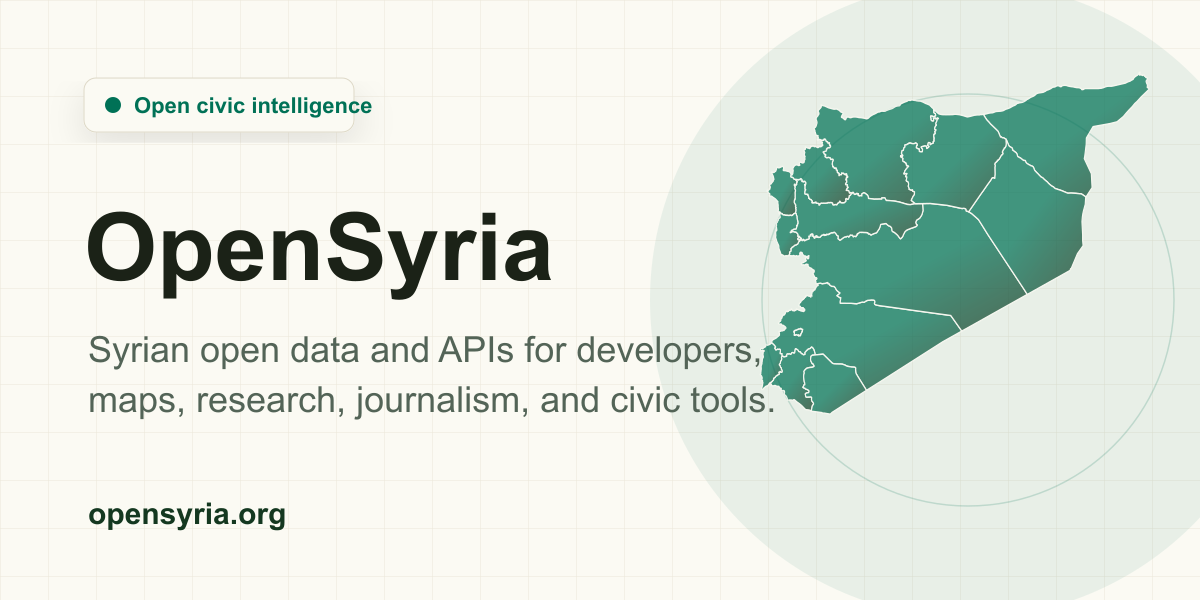
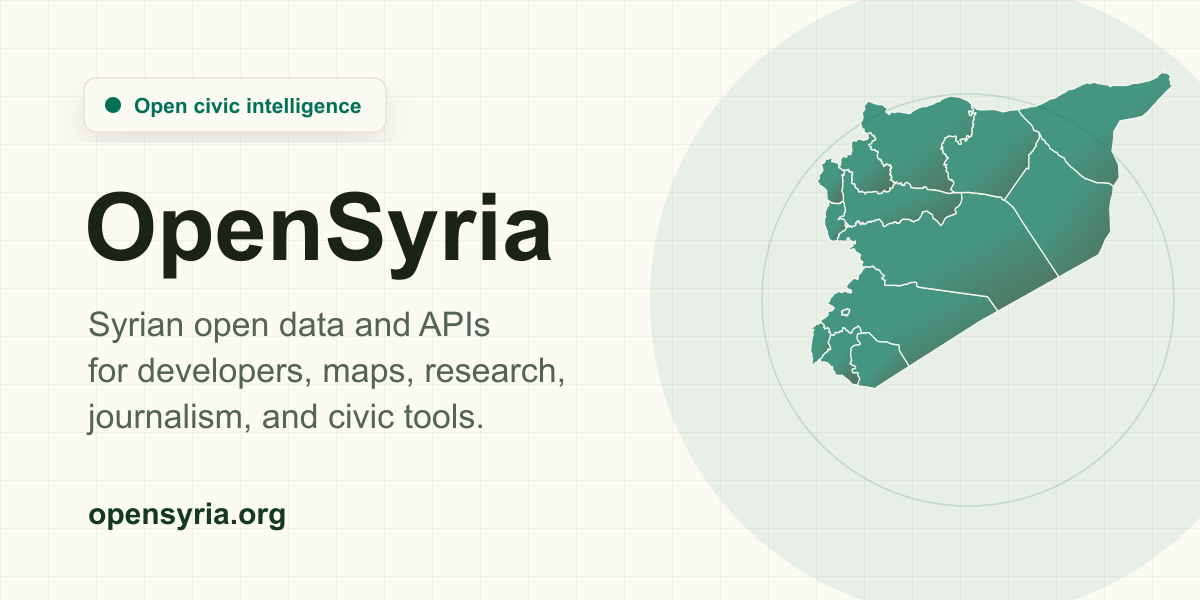
fix: refine brand preview layout

diff --git a/src/lib/site.ts b/src/lib/site.ts
@@ -1,4 +1,4 @@
-const brandAssetVersion = "20260704-brand"
+const brandAssetVersion = "20260704-brand-wordmark"
 
 export const siteConfig = {
   name: "OpenSyria",
